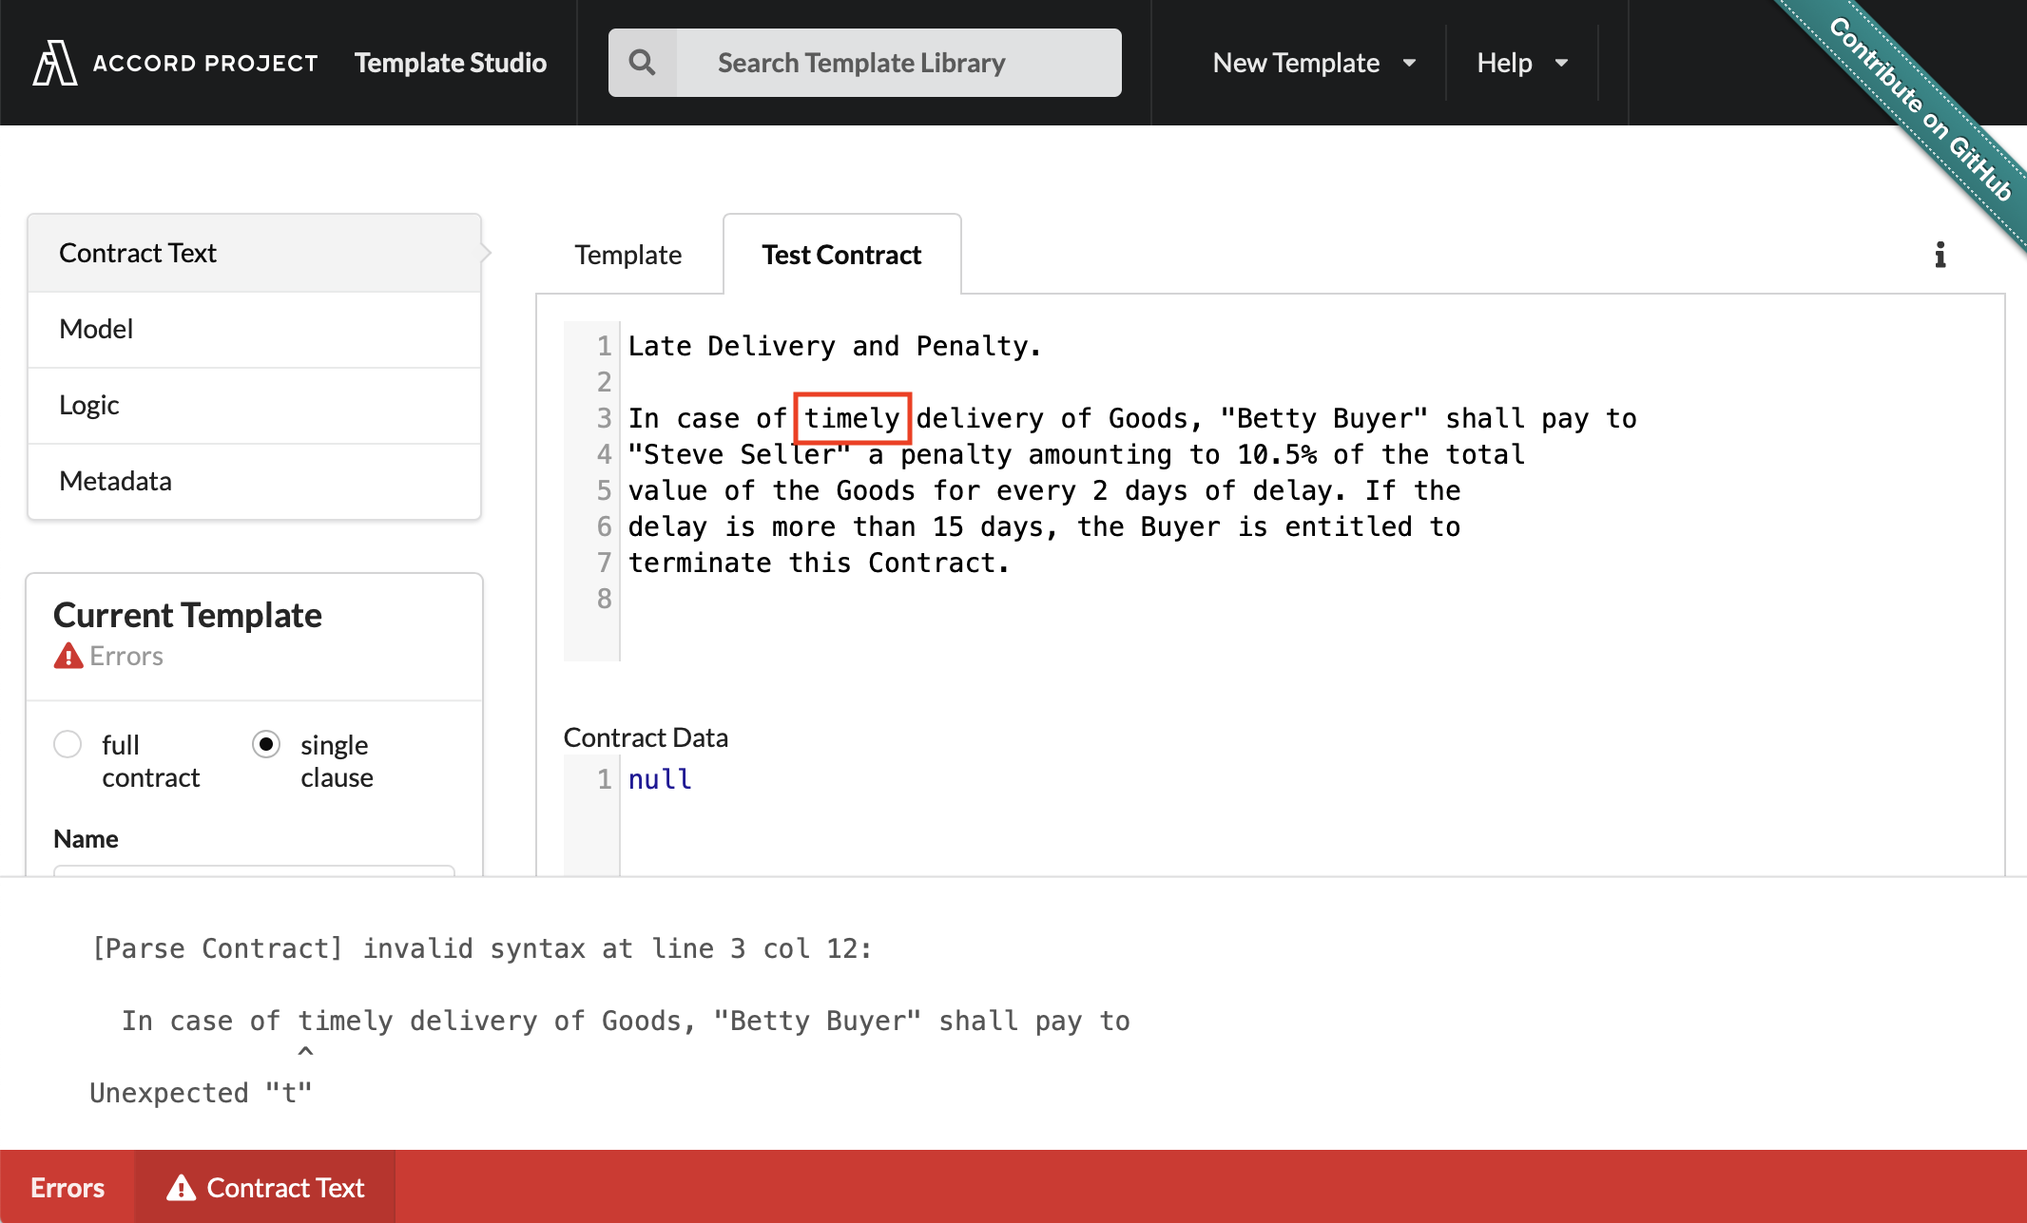
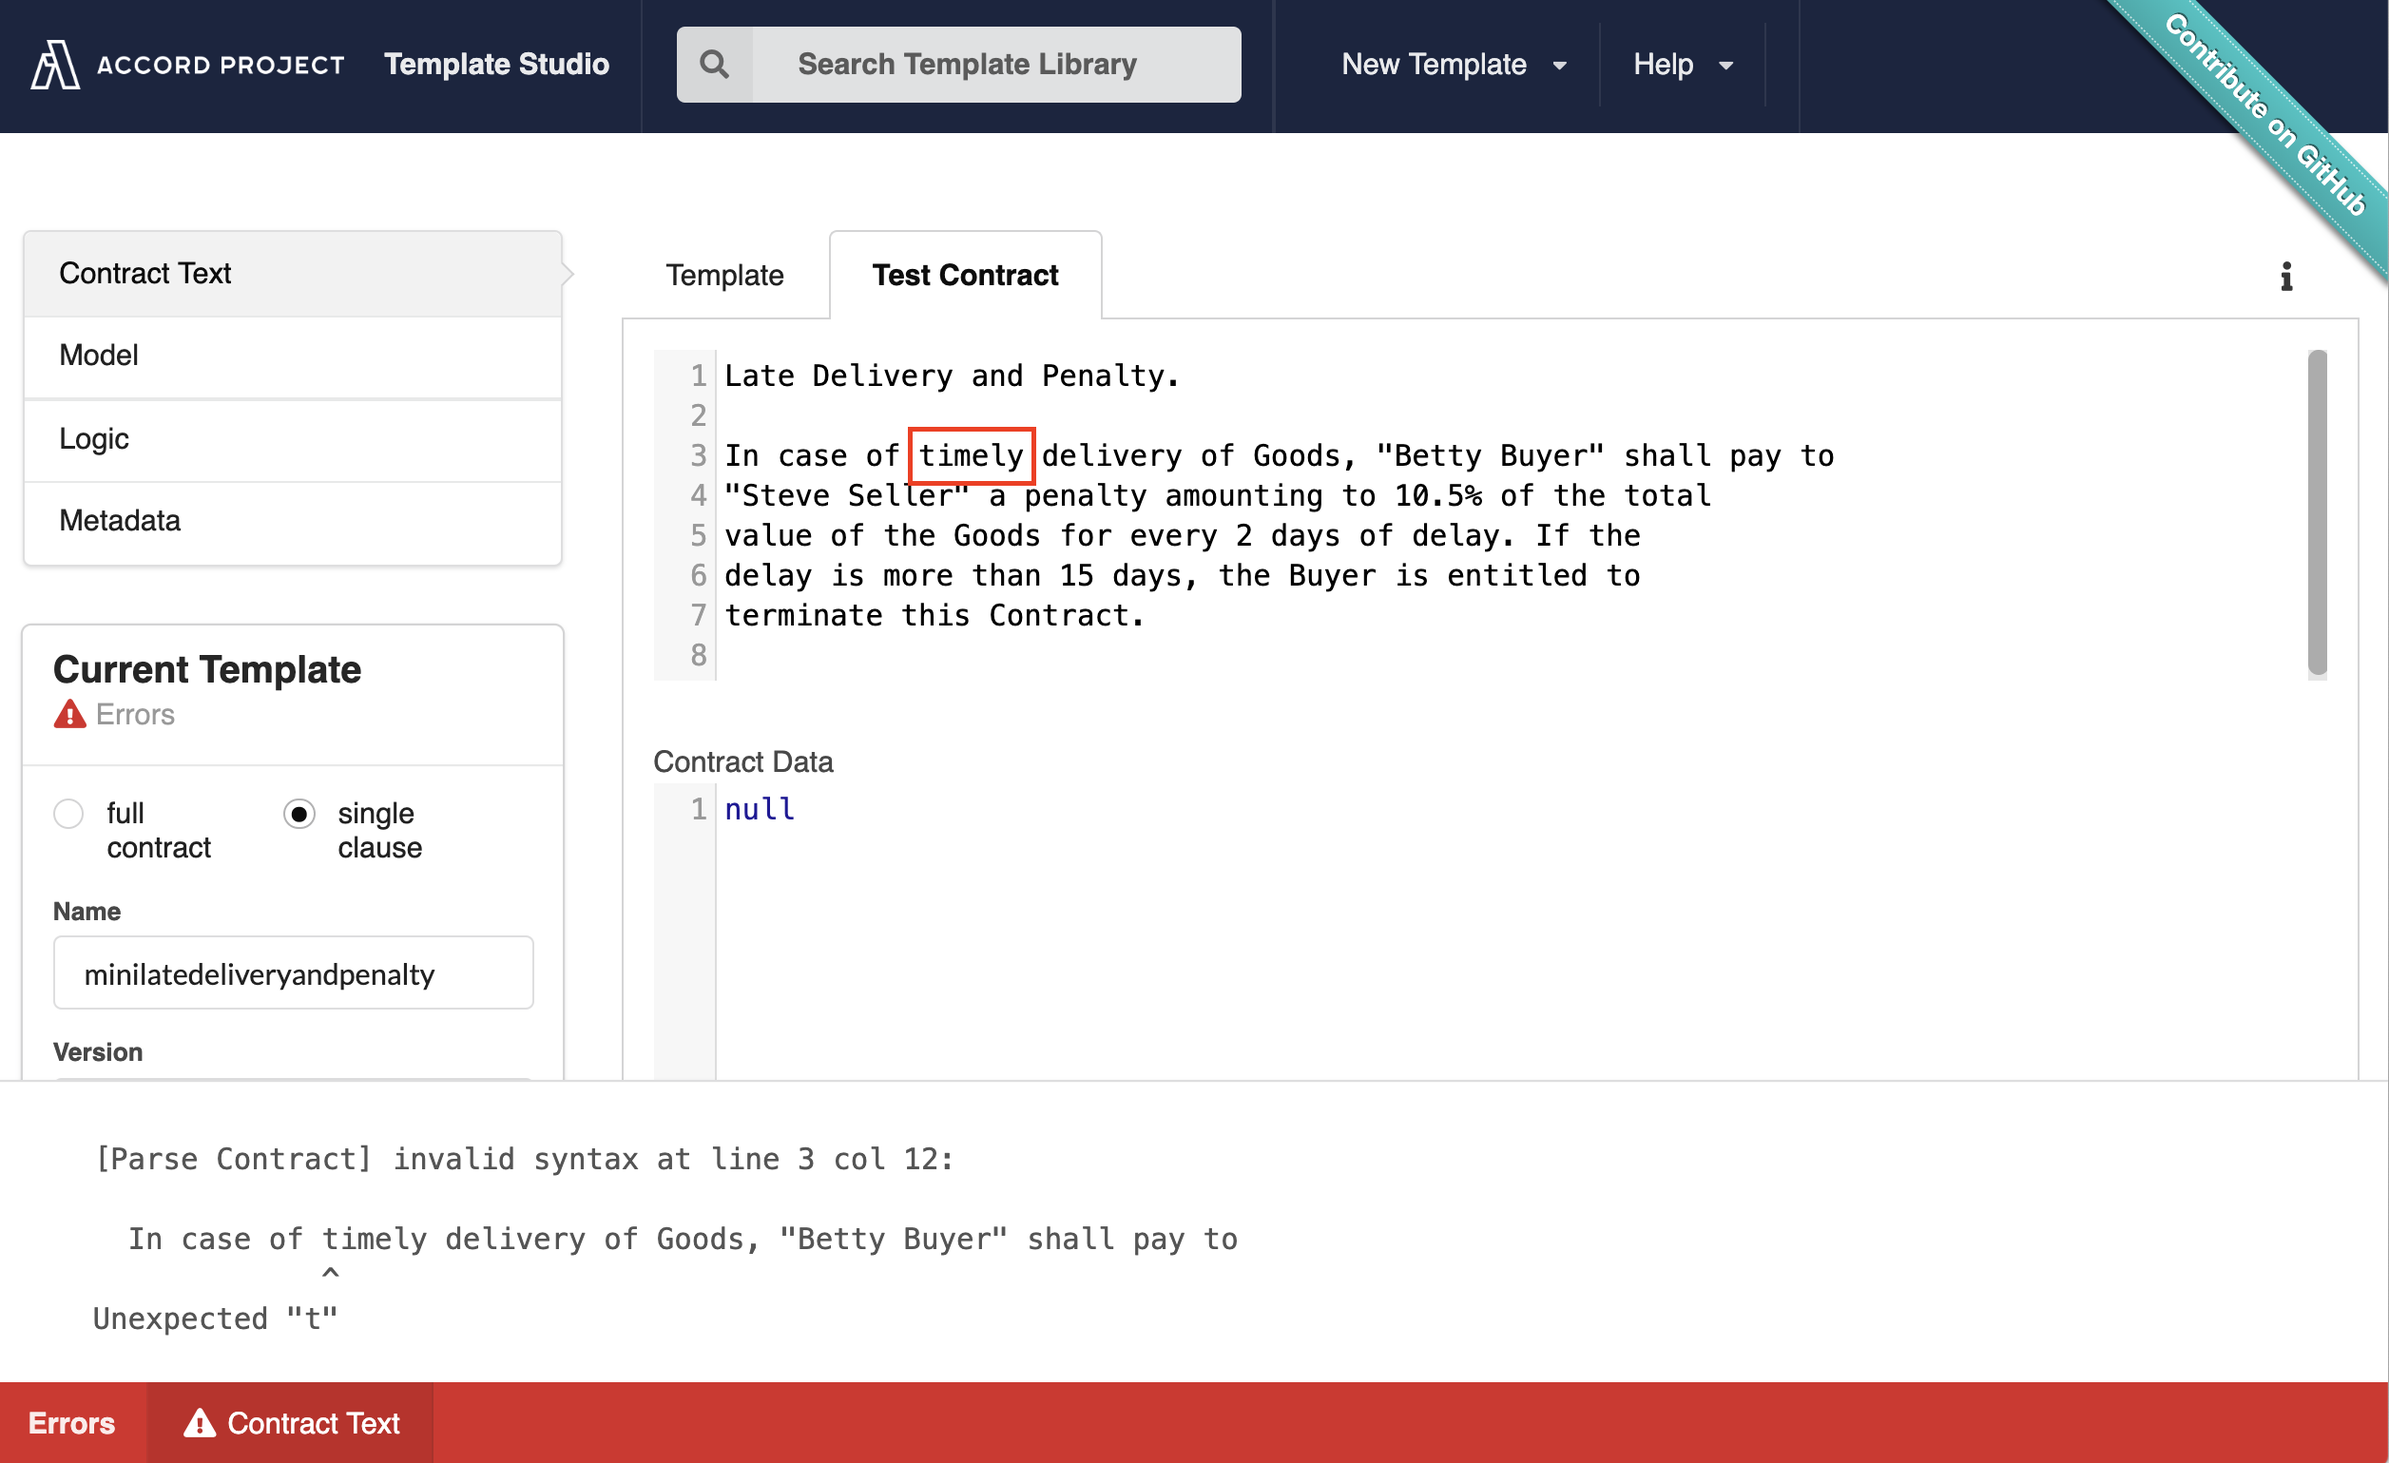
(fix) Review/fix template studio tutorial and other snapshots

diff --git a/website/versioned_docs/version-0.12.3/advanced-latedelivery.md b/website/versioned_docs/version-0.12.3/advanced-latedelivery.md
@@ -1,0 +1,260 @@
+---
+id: version-0.12.3-advanced-latedelivery
+title: Authoring in Template Studio
+original_id: advanced-latedelivery
+---
+
+This tutorial will walk you through the steps of authoring a clause template in [Template Studio](https://studio.accordproject.org/).
+
+We start with a very simple _Late Penalty and Delivery_ Clause and gradually make it more complex, adding both legal text to it and the corresponding business logic in Ergo.
+
+## Initial Late Delivery Clause
+
+### Load the Template
+
+To get started, head to the `minilatedeliveryandpenalty` template in the Accord Project Template Library at https://templates.accordproject.org/minilatedeliveryandpenalty@0.2.1.html and click the "Open In Template Studio" button.
+
+![Advanced-Late-1](assets/advanced/late1.png)
+
+Begin by inspecting the `README` and `package.json` tabs within the `Metadata` section. Feel free to change the name of the template to one you like.
+
+### The Contract Text
+
+Then head to the `Template` tab in the `Contract Text` section which shows the natural language for the template. You should see the following text.
+
+![Advanced-Late-2](assets/advanced/late2.png)
+
+When the text in the `Template` tab is in sync with the text in the `Test Contract` tab, this results in a valid contract instance in the `Contract Data` tab. The contract data is represented using the JSON format, and contains the value of the variables declared in the contract template. For instance, the value for the `buyer` variable is `Betty Buyer`, highlighted in red:
+
+![Advanced-Late-3](assets/advanced/late3.png)
+
+Changes to the variables in the `Test Contract` are reflected in the Contract Data in real time, and vice versa. For instance, change `Betty Buyer` to a different name in the contract text to see the `partyId` change in the contract data.
+
+If you edit part of the text which is not a variable in the template, this results in an error when parsing the `Contract Text`. The error will be shown in red in the status bar at the bottom of the page. For instance the following image shows the parsing error obtained when changing the word `delayed` to the word `timely` in the contract text.
+
+![Advanced-Late-4](assets/advanced/late4.png)
+
+This is because the `Test Contract` relies on the `Template` text as a source of truth. This mechanism ensures that the actual contract always reflects the template, and remains faithful to the original legal text. You can however edit the `Template` itself in order to change the legal text, thereby creating a new template.
+
+Revert your changes, changing the word `timely` back to the original word `delayed` and the parsing error will disappear.
+
+### The Model
+
+Moving along to the `Model` section, you will find the data model for the template variables (the `MiniLateDeliveryClause` type), as well as for the requests (the `LateRequest` type) and response (the `LateResponse` type) for the late delivery and penalty clause.
+
+![Advanced-Late-5](assets/advanced/late5.png)
+
+Note that a `namespace` is declared at the beginning of the file for the model, and that several existing models are being imported (using e.g., `import org.accordproject.cicero.contract.*`). Those imports are needed to access the definition for several types used in the model:
+- `AccordClause` which is a generic type for all Accord Project clause templates, and is defined in the `org.accordproject.contract` namesapce;
+- `Request` and `Response` which are generic types for responses and requests, and are defined in the `org.accordproject.runtime` namespace;
+- `Duration` which is defined in the `org.accordproject.time` namespace.
+
+### The Logic
+
+The final part of the template is the `Ergo` tab of the `Logic` section, which describes the business logic.
+
+![Advanced-Late-6](assets/advanced/late6.png)
+
+Thanks to the `namespace` at the beginning of this file, the Ergo engine can know the definition for the `MiniLateDeliveryClause`, as well as the `LateRequest`, and `LateResponse` types defined in the `Model` tab.
+
+To test the template execution, go to the `Test Execution` tab in the `Logic` section. It should be already populated with a valid `Request`. Press the `Send Request` button to trigger the smart clause.
+
+![Advanced-Late-7](assets/advanced/late7.png)
+
+Since the value of the `deliveredAt` parameter in the request is after the value of the `agreedDelivery` parameter in the request, this should return a new response which includes the calculated penalty.
+
+Changing the date for the `deliveredAt` parameter in the request will result in a different penalty.
+
+![Advanced-Late-8](assets/advanced/late8.png)
+
+Note that the clause will return an error if it is called for a timely delivery.
+
+![Advanced-Late-9](assets/advanced/late9.png)
+
+## Add a Penalty Cap
+
+We can now start building a more advanced clause. Let us first take a moment to notice that there is no limitation to the penalty resulting from a late delivery. Under `Test Execution` in `Logic`, send this request:
+```json
+{
+  "$class": "org.accordproject.minilatedeliveryandpenalty.LateRequest",
+  "agreedDelivery": "2019-04-10T12:00:00-05:00",
+  "deliveredAt": "2019-04-20T03:24:00-05:00",
+  "goodsValue": 200
+}
+```
+The penalty should be rather low. Now send this other request:
+```json
+{
+  "$class": "org.accordproject.minilatedeliveryandpenalty.LateRequest",
+  "agreedDelivery": "2005-04-01T12:00:00-05:00",
+  "deliveredAt": "2019-04-20T03:24:00-05:00",
+  "goodsValue": 200
+}
+```
+Notice that the penalty is now quite a large value. It is not unusual to cap a penalty to a maximum amount. Let us now look at how to change the template to add such a cap based on a percentage of the total value of the delivered goods. 
+
+### Update the Legal Text
+
+To implement this, we first go to the `Template` tab and add a sentence indicating: `The total amount of penalty shall not, however, exceed [{capPercentage}]% of the total value of the delayed goods.`
+
+For convenience, you can copy-paste the new template text from here:
+```md
+Late Delivery and Penalty.
+
+In case of delayed delivery of Goods, [{buyer}] shall pay to
+[{seller}] a penalty amounting to [{penaltyPercentage}]% of the total
+value of the Goods for every [{penaltyDuration}] of delay. The total
+amount of penalty shall not, however, exceed [{capPercentage}]% of the
+total value of the delayed goods. If the delay is more than
+[{maximumDelay}], the Buyer is entitled to terminate this Contract.
+
+```
+This should immediately result in an error when parsing the contract text:
+
+![Advanced-Late-10](assets/advanced/late10.png)
+
+As explained in the error message, this is because the new template text uses a variable `capPercentage` which has not been declared in the model.
+
+### Update the Model
+
+To define this new variable, go to the `Model` tab, and change the `MiniLateDeliveryClause` type to include `o Double capPercentage`. 
+
+![Advanced-Late-11](assets/advanced/late10b.png)
+
+For convenience, you can copy-paste the new `MiniLateDeliveryClause` type from here:
+```ergo
+asset MiniLateDeliveryClause extends AccordClause {
+  o AccordParty buyer         // Party to the contract (buyer)
+  o AccordParty seller        // Party to the contract (seller)
+  o Duration penaltyDuration  // Length of time resulting in penalty
+  o Double penaltyPercentage  // Penalty percentage
+  o Double capPercentage      // Maximum penalty percentage
+  o Duration maximumDelay     // Maximum delay before termination
+}
+```
+
+This result in a new error, this time on the test contract:
+
+![Advanced-Late-11](assets/advanced/late11.png)
+
+To fix it, we simply need to add that same line we added to the template, replacing the `capPercentage` by a value in the `Test Contract`: `The total amount of penalty shall not, however, exceed 52% of the total value of the delayed goods.`
+
+For convenience, you can copy-paste the new test contract from here:
+```md
+Late Delivery and Penalty.
+
+In case of delayed delivery of Goods, "Betty Buyer" shall pay to
+"Steve Seller" a penalty amounting to 10.5% of the total
+value of the Goods for every 2 days of delay. The total
+amount of penalty shall not, however, exceed 52% of the
+total value of the delayed goods. If the delay is more than
+15 days, the Buyer is entitled to terminate this Contract.
+
+```
+
+Great, now the edited template should have no more errors, and the contract data should now include the value for the new `capPercentage` variable.
+
+![Advanced-Late-12](assets/advanced/late12.png)
+
+Note that the `Current Template` Tab indicates that the template has been changed.
+
+### Update the Logic
+
+At this point, executing the logic will still result in large penalties. This is because the logic does not take advantage of the new `capPercentage` variable. Edit the `logic.ergo` code to do so. After step `// 2. Penalty formula` in the logic, apply the penalty cap by adding some logic as follows:
+```
+    // 3. Capped Penalty
+    let cap = contract.capPercentage / 100.0 * request.goodsValue;
+
+    let cappedPenalty =
+      if penalty > cap
+      then cap
+      else penalty;
+    
+```
+Do not forget to also change the value of the penalty in the returned `LateResponse` to use the new variable `cappedPenalty`:
+```
+    // 5. Return the response
+    return LateResponse{
+      penalty: cappedPenalty,
+      buyerMayTerminate: termination
+    }
+```
+The logic should now look as follows:
+
+![Advanced-Late-13](assets/advanced/late13.png)
+
+### Execute the new Logic
+
+As a final test of the new template, you should try again to execute the contract with a long delay in delivery. This should now result into a much smaller penalty, which is capped to 52% of the total value of the goods, or 104 USD.
+
+![Advanced-Late-14](assets/advanced/late14.png)
+
+## Emit a Payment Obligation.
+
+As a final extension to this template, we can modify it to emit a Payment Obligation. This first requires us to switch from a Clause template to a Contract template.
+
+### Switch to a Contract Template
+
+The first place to change is in the metadata for the template. This can be done easily with the `full contract` button in the `Current Template` tab. This will immediately result in an error indicating that the model does not contain an `AccordContract` type.
+
+![Advanced-Late-15](assets/advanced/late15.png)
+
+### Update the Model
+
+To fix this, change the model to reflect that we are now editing a contract template, and change the type `AccordClause` to `AccordContract` in the type definition for the template variables:
+```ergo
+asset MiniLateDeliveryContract extends AccordContract {
+  o AccordParty buyer         // Party to the contract (buyer)
+  o AccordParty seller        // Party to the contract (seller)
+  o Duration penaltyDuration  // Length of time resulting in penalty
+  o Double penaltyPercentage  // Penalty percentage
+  o Double capPercentage      // Maximum penalty percentage
+  o Duration maximumDelay     // Maximum delay before termination
+}
+```
+
+The next error is in the logic, since it still uses the old `MiniLateDeliveryClause` type which does not exist anymore.
+
+### Update the Logic
+
+The `Logic` error that occurs here is:
+```ergo
+Compilation error (at file lib/logic.ergo line 19 col 31). Cannot find type with name 'MiniLateDeliveryClause'
+contract MiniLateDelivery over MiniLateDeliveryClause {
+                               ^^^^^^^^^^^^^^^^^^^^^^ 
+```
+Update the logic to use the the new `MiniLateDeliveryContract` type instead, as follows:
+```ergo
+contract MiniLateDelivery over MiniLateDeliveryContract {
+```
+
+The template should now be without errors.
+
+### Add a Payment Obligation
+
+Our final task is to emit a `PaymentObligation` to indicate that the seller should pay the buyer in the amount of the calculated penalty.
+
+To do so, first import a couple of standard models: for the Cicero's [runtime model](https://models.accordproject.org/cicero/runtime.html) (which contains the definition of a `PaymentObligation`), and for the Accord Project's [money model](https://models.accordproject.org/money.html) (which contains the definition of a `MonetaryAmount). The `import` statements at the top of your logic should look as follows:
+```ergo
+import org.accordproject.time.*
+import org.accordproject.cicero.runtime.*
+import org.accordproject.money.MonetaryAmount
+
+```
+
+Lastly, add a new step between steps `// 4.` and `// 5.` in the logic to emit a payment obligation in USD:
+```ergo
+    emit PaymentObligation{
+      contract: contract,
+      promisor: some(contract.seller),
+      promisee: some(contract.buyer),
+      deadline: none,
+      amount: MonetaryAmount{ doubleValue: cappedPenalty, currencyCode: "USD" },
+      description: contract.seller.partyId ++ " should pay penalty amount to " ++ contract.buyer.partyId
+    };
+
+```
+That's it! You can observe in the `Test Execution` that an `Obligation` is now being emitted. Try out adjusting values and continuing to send requests and getting responses and obligations.
+
+![Advanced-Late-16](assets/advanced/late16.png)
+

diff --git a/docs/advanced-latedelivery.md b/docs/advanced-latedelivery.md
@@ -11,11 +11,7 @@ We start with a very simple _Late Penalty and Delivery_ Clause and gradually mak
 
 ### Load the Template
 
-To get started, download the `minilatedeliveryandpenalty` template archive from https://templates.accordproject.org/minilatedeliveryandpenalty@0.2.1.html
-
-> If you are using a version of template studio running Cicero 0.10, you can download a compatible archive here: [minilatedeliveryandpenalty@0.1.1.cta](assets/advanced/minilatedeliveryandpenalty@0.1.1.cta)
-
-Head to [Template Studio](https://studio.accordproject.org/) to inspect and edit this initial clause template. In the navigation bar, click `New Template` and select `...from disk` to find the file and upload it.
+To get started, head to the `minilatedeliveryandpenalty` template in the Accord Project Template Library at https://templates.accordproject.org/minilatedeliveryandpenalty@0.2.1.html and click the "Open In Template Studio" button.
 
 ![Advanced-Late-1](assets/advanced/late1.png)
 
@@ -38,6 +34,8 @@ If you edit part of the text which is not a variable in the template, this resul
 ![Advanced-Late-4](assets/advanced/late4.png)
 
 This is because the `Test Contract` relies on the `Template` text as a source of truth. This mechanism ensures that the actual contract always reflects the template, and remains faithful to the original legal text. You can however edit the `Template` itself in order to change the legal text, thereby creating a new template.
+
+Revert your changes, changing the word `timely` back to the original word `delayed` and the parsing error will disappear.
 
 ### The Model
 
@@ -110,7 +108,7 @@ total value of the delayed goods. If the delay is more than
 [{maximumDelay}], the Buyer is entitled to terminate this Contract.
 
 ```
-This should result in an error when parsing the contract text:
+This should immediately result in an error when parsing the contract text:
 
 ![Advanced-Late-10](assets/advanced/late10.png)
 
@@ -119,6 +117,8 @@ As explained in the error message, this is because the new template text uses a 
 ### Update the Model
 
 To define this new variable, go to the `Model` tab, and change the `MiniLateDeliveryClause` type to include `o Double capPercentage`. 
+
+![Advanced-Late-11](assets/advanced/late10b.png)
 
 For convenience, you can copy-paste the new `MiniLateDeliveryClause` type from here:
 ```ergo
@@ -131,6 +131,7 @@ asset MiniLateDeliveryClause extends AccordClause {
   o Duration maximumDelay     // Maximum delay before termination
 }
 ```
+
 This result in a new error, this time on the test contract:
 
 ![Advanced-Late-11](assets/advanced/late11.png)

diff --git a/website/versioned_docs/version-0.12.3/accordproject-templates.md b/website/versioned_docs/version-0.12.3/accordproject-templates.md
@@ -1,6 +1,7 @@
 ---
-id: accordproject-templates
+id: version-0.12.3-accordproject-templates
 title: Open Source Templates
+original_id: accordproject-templates
 ---
 
 Accord Project maintains an Open Source [Templates Library](https://templates.accordproject.org) of legal clauses and contracts that conform to the Accord Project template specification.
